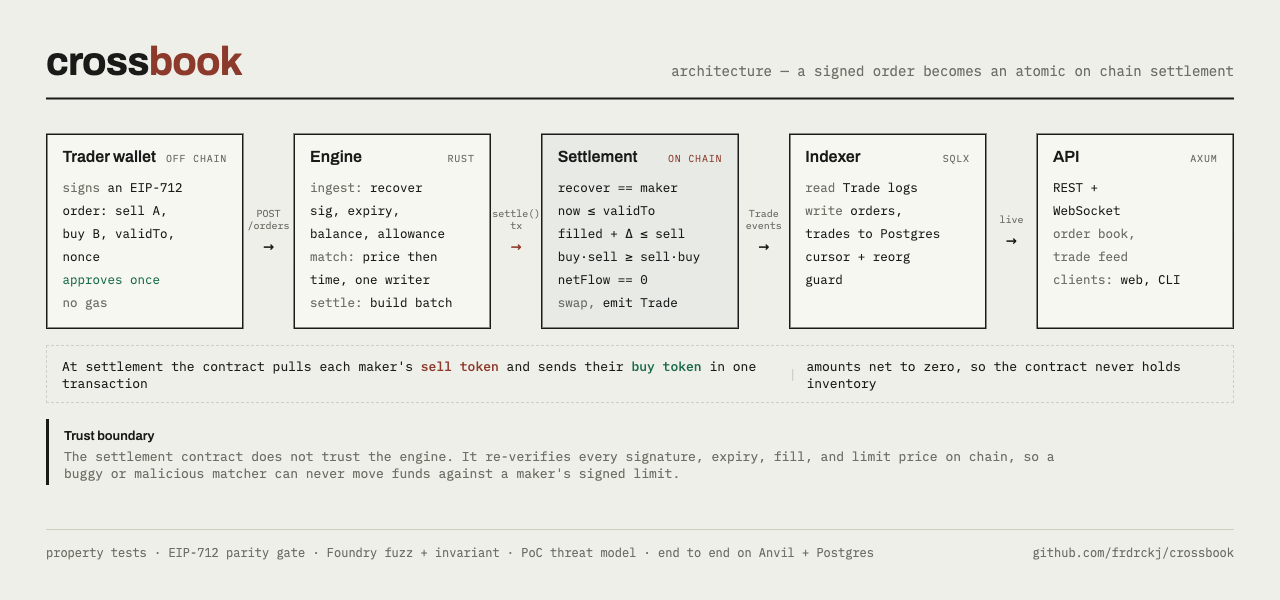
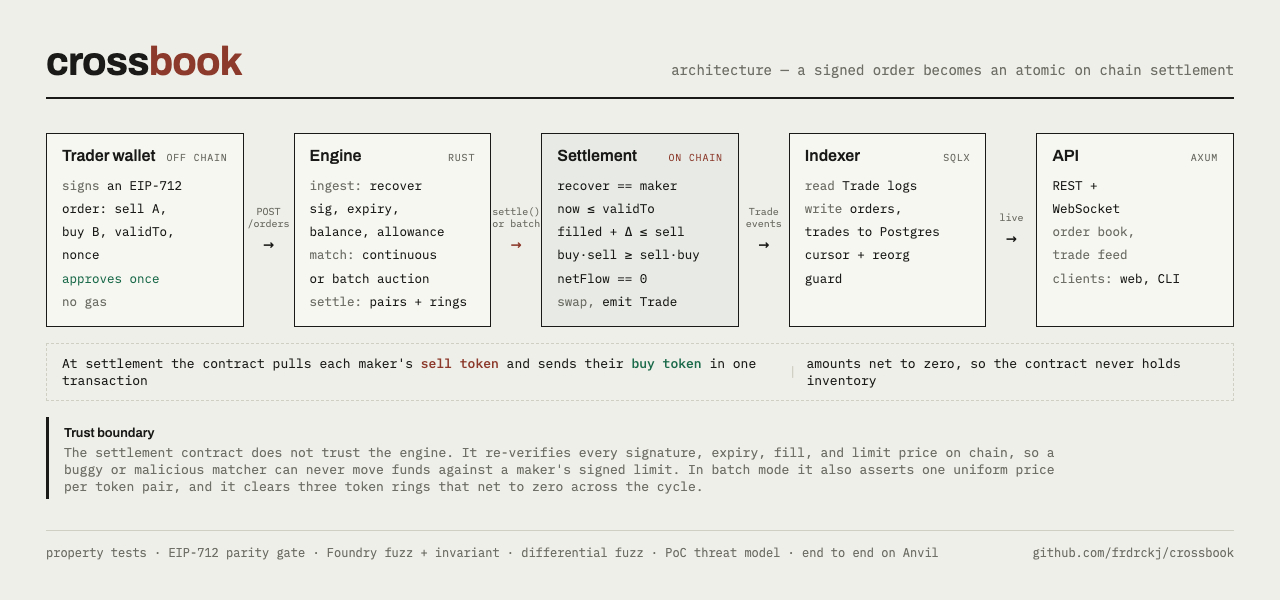
docs: ring trades, refreshed architecture diagram, settlement gas
Document ring trades in the readme and architecture doc, and redraw the
architecture diagram to show the two matching modes (continuous and batch
auction), ring clearing, and the differential fuzz. Record settlement gas
(settle about 165k, settleBatch about 201k for a two order clearing) and
the differential fuzz result in the benchmarks.

diff --git a/docs/architecture.html b/docs/architecture.html
@@ -74,12 +74,12 @@
           <div class="line"><span class="k">ingest:</span> recover</div>
           <div class="line">sig, expiry,</div>
           <div class="line">balance, allowance</div>
-          <div class="line"><span class="k">match:</span> price then</div>
-          <div class="line">time, one writer</div>
-          <div class="line"><span class="k">settle:</span> build batch</div>
+          <div class="line"><span class="k">match:</span> continuous</div>
+          <div class="line">or batch auction</div>
+          <div class="line"><span class="k">settle:</span> pairs + rings</div>
         </div>
 
-        <div class="conn bound"><div class="lab">settle()<br />tx</div><div class="arr">&rarr;</div></div>
+        <div class="conn bound"><div class="lab">settle()<br />or batch</div><div class="arr">&rarr;</div></div>
 
         <div class="card chain">
           <div class="h"><b>Settlement</b><span class="where">on chain</span></div>
@@ -122,11 +122,11 @@
 
       <div class="callout">
         <b>Trust boundary</b>
-        <p>The settlement contract does not trust the engine. It re-verifies every signature, expiry, fill, and limit price on chain, so a buggy or malicious matcher can never move funds against a maker's signed limit.</p>
+        <p>The settlement contract does not trust the engine. It re-verifies every signature, expiry, fill, and limit price on chain, so a buggy or malicious matcher can never move funds against a maker's signed limit. In batch mode it also asserts one uniform price per token pair, and it clears three token rings that net to zero across the cycle.</p>
       </div>
 
       <div class="foot">
-        <span>property tests &middot; EIP-712 parity gate &middot; Foundry fuzz + invariant &middot; PoC threat model &middot; end to end on Anvil + Postgres</span>
+        <span>property tests &middot; EIP-712 parity gate &middot; Foundry fuzz + invariant &middot; differential fuzz &middot; PoC threat model &middot; end to end on Anvil</span>
         <span>github.com/frdrckj/crossbook</span>
       </div>
     </div>

diff --git a/docs/architecture.md b/docs/architecture.md
@@ -53,3 +53,13 @@ It is worth being precise about what this does and does not guarantee. The chain
 ### How it runs in the engine
 
 In batch mode the single writer task buffers admitted orders instead of crossing them. A window driver closes the window on the interval, asks the core to clear the buffer, advances each order's remaining amount, and submits one `settleBatch` for the whole batch. Settlement emits the same Trade events the indexer already reads, so the read and feed paths are identical to continuous mode. The window countdown, the collected orders, and the last clearing per pair are exposed at `/batch` for the dashboard.
+
+## Ring trades
+
+A pair auction matches a buyer of a token directly against a seller of the same token. A ring goes one hop further. Three orders that each sell one token and buy the next form a cycle, A to B to C and back to A, and they can all trade with no external liquidity even though no two of them share a pair. That is the multi token coincidence of wants an order book cannot express, and it is what CoW is known for.
+
+The condition for a ring to clear is simple: written as buy over sell, the product of the three limits must be at most one. Then value can flow around the cycle and return without leaking. Clearing it with exact integers is the careful part. With each limit reduced to lowest terms and a scale `t`, the core sets `x_A = s1 s2 t`, `x_B = b1 s2 t`, `x_C = b1 b2 t`. The first two orders then trade exactly at their limits, the closing order clears its own limit precisely when the ring is profitable and keeps the surplus, and every token nets to zero because the amount each order sells is the amount the next order in the cycle buys. Splitting the surplus evenly across the ring would need a cube root, so it is left on the closing order for now.
+
+Because a ring already nets to zero across its tokens and every fill respects its maker's limit, it needs nothing new on chain: it settles through the plain `settle` entrypoint, whose net flow and per maker limit checks are exactly what a ring satisfies. The global, rather than per pair, net flow check is what makes this work for three tokens at once. In batch mode the window driver clears pairs first, then extracts profitable rings from what the pairs left behind, and settles the rings in one `settle` call beside the pairs' `settleBatch`. The ring matcher is pure and lives in `crossbook-core/ring.rs`, with a golden coincidence of wants and a property test over random cycles for net to zero, limits, and determinism.
+
+The current scope is a single three token ring per search, extracted repeatedly within a window. Longer rings and a welfare maximizing multi token clearing (the general solver problem) are a deliberate next step, not part of this build.

diff --git a/README.md b/README.md
@@ -19,7 +19,9 @@ Funds stay in the trader's wallet until the moment of execution. A maker grants 
 
 ## Matching modes
 
-Crossbook matches in one of two modes, chosen by config and never both at once. Continuous mode, the default, crosses each order against the book as it arrives at price time priority. Batch mode collects orders over a window and clears each token pair at one uniform price, a call auction in the CoW style, so every order in a pair trades at the same price and a later arrival gets no worse a fill. The contract verifies that single price per pair onchain and emits a settlement event for it. Set `MATCHING_MODE` to continuous or batch and `BATCH_INTERVAL` to the window length in seconds. The clearing algorithm is written up in [docs/architecture.md](docs/architecture.md).
+Crossbook matches in one of two modes, chosen by config and never both at once. Continuous mode, the default, crosses each order against the book as it arrives at price time priority. Batch mode collects orders over a window and clears each token pair at one uniform price, a call auction in the CoW style, so every order in a pair trades at the same price and a later arrival gets no worse a fill. The contract verifies that single price per pair onchain and emits a settlement event for it. Set `MATCHING_MODE` to continuous or batch and `BATCH_INTERVAL` to the window length in seconds.
+
+Batch mode also clears **ring trades**: three orders that each sell one token and buy the next form a cycle (A to B to C to A) and all trade with no external liquidity, even though no two share a pair. This is the multi token coincidence of wants an order book cannot express. Rings net to zero across their tokens and respect every maker's limit, so they settle through the same contract with no special trust. The clearing algorithms are written up in [docs/architecture.md](docs/architecture.md).
 
 ## Design
 
@@ -59,7 +61,7 @@ just bench      # matching core benchmarks
 
 ## Testing
 
-The matcher is covered by property tests for its invariants (no crossed book, conservation, cumulative limit respect, exact partial fill accounting, and fill or kill), a check of the price math against exact rational arithmetic, a golden replay for determinism, and an assertion that the hot path does not allocate. The batch auction adds property tests for one price per pair, quantity conservation and net to zero, maximal crossable volume, and determinism, a golden coincidence of wants clearing at the midpoint, and a check that the batch captures at least the surplus continuous matching would. The settlement contract has a Foundry suite of unit, fuzz, and invariant tests covering every revert path, fee on transfer tokens, reentrancy, zero inventory, and the onchain uniform price assertion. A cross language test proves the Rust and Solidity order digests match byte for byte.
+The matcher is covered by property tests for its invariants (no crossed book, conservation, cumulative limit respect, exact partial fill accounting, and fill or kill), a check of the price math against exact rational arithmetic, a golden replay for determinism, and an assertion that the hot path does not allocate. The batch auction adds property tests for one price per pair, quantity conservation and net to zero, maximal crossable volume, and determinism, a golden coincidence of wants clearing at the midpoint, and a check that the batch captures at least the surplus continuous matching would. Ring clearing has a golden three token ring and a property test over random cycles for net to zero, limits, and determinism. The settlement contract has a Foundry suite of unit, fuzz, and invariant tests covering every revert path, fee on transfer tokens, reentrancy, zero inventory, and the onchain uniform price assertion. A cross language test proves the Rust and Solidity order digests match byte for byte, and a cross implementation differential test fuzzes random batches through the Rust core and the live Solidity contract on Anvil and asserts they always agree.
 
 ## Security
 